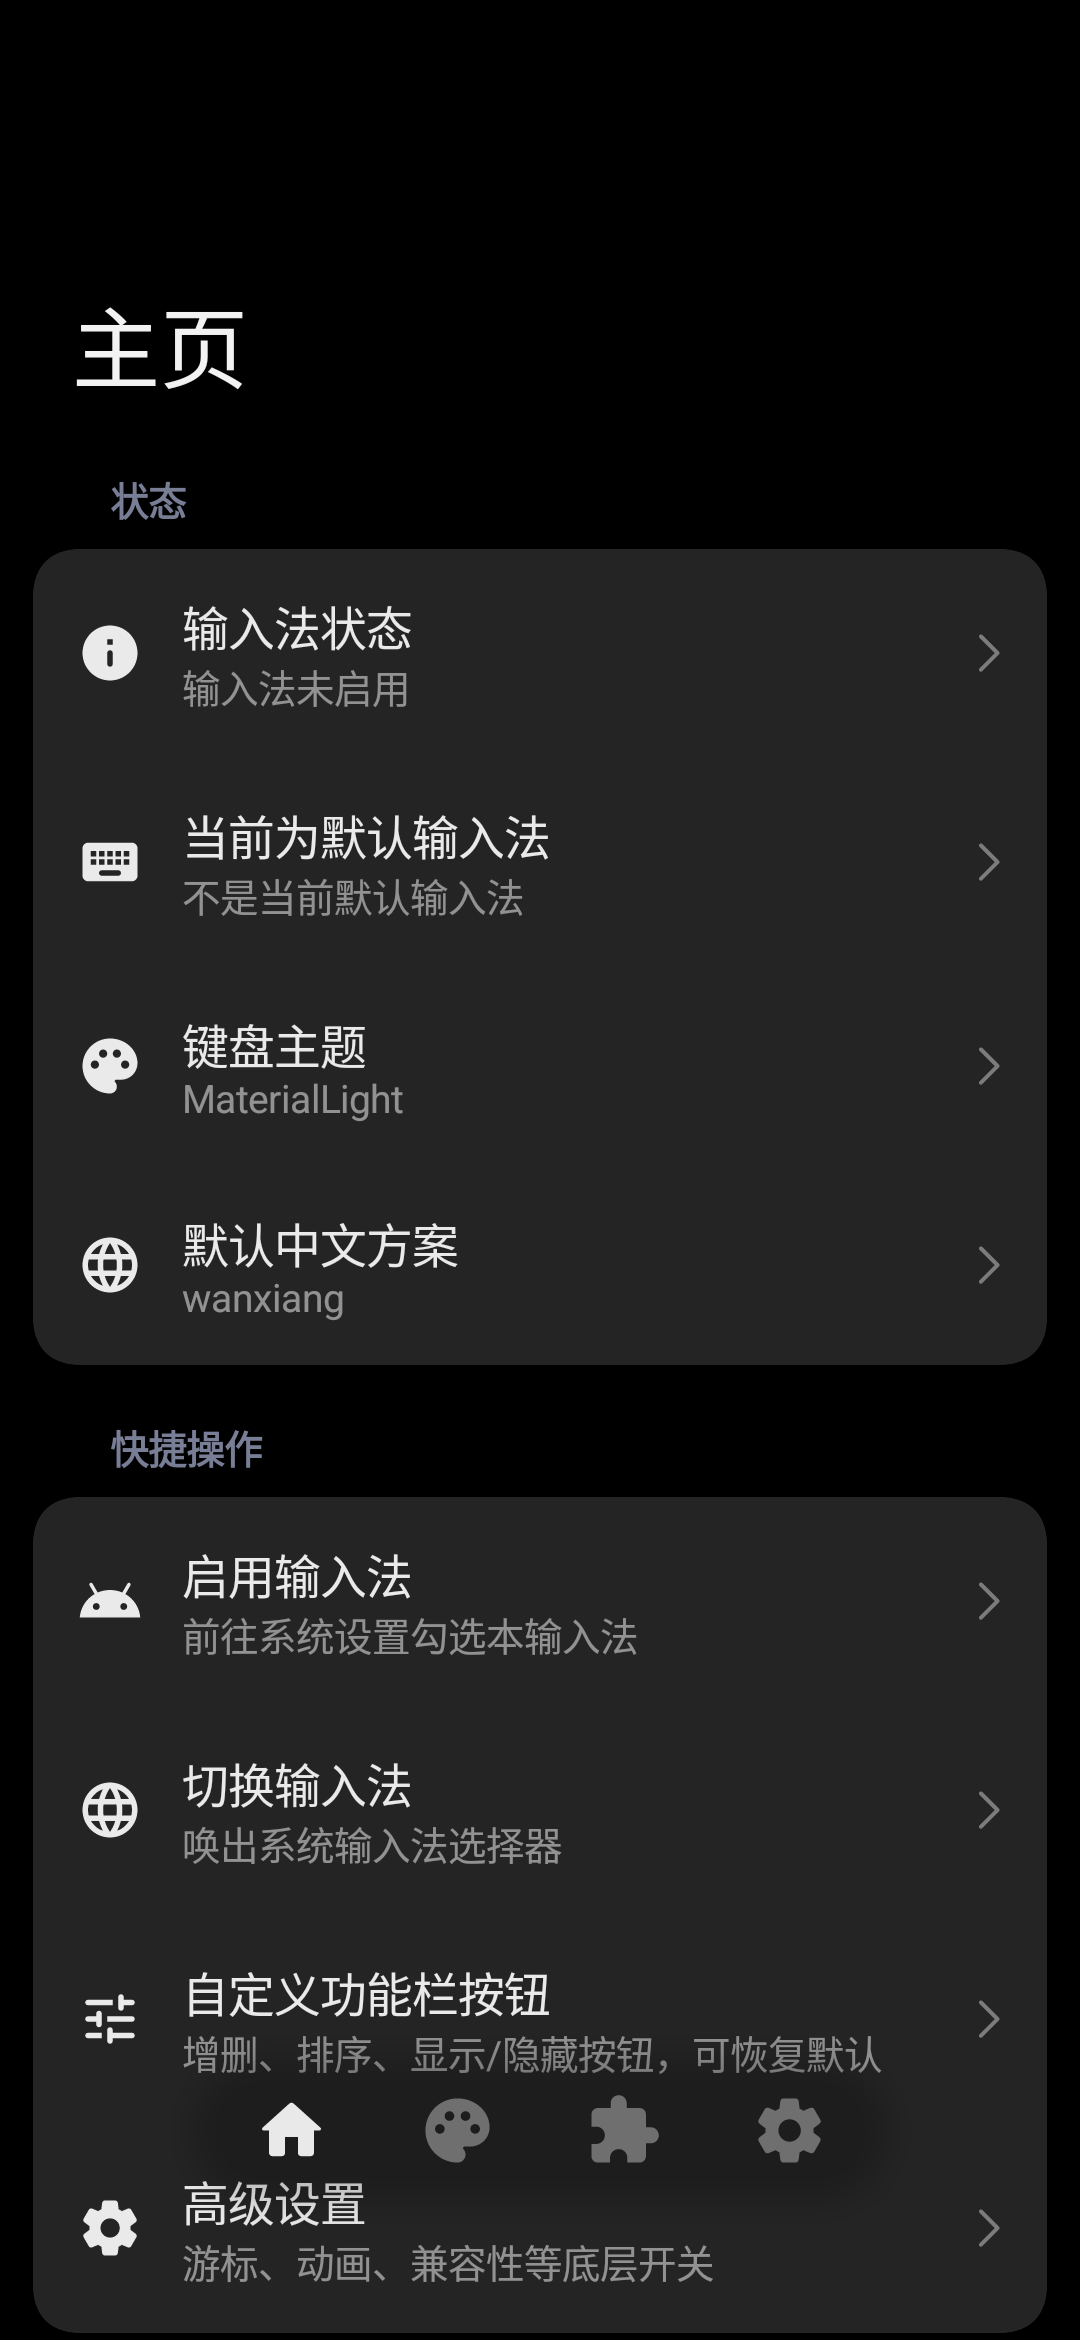
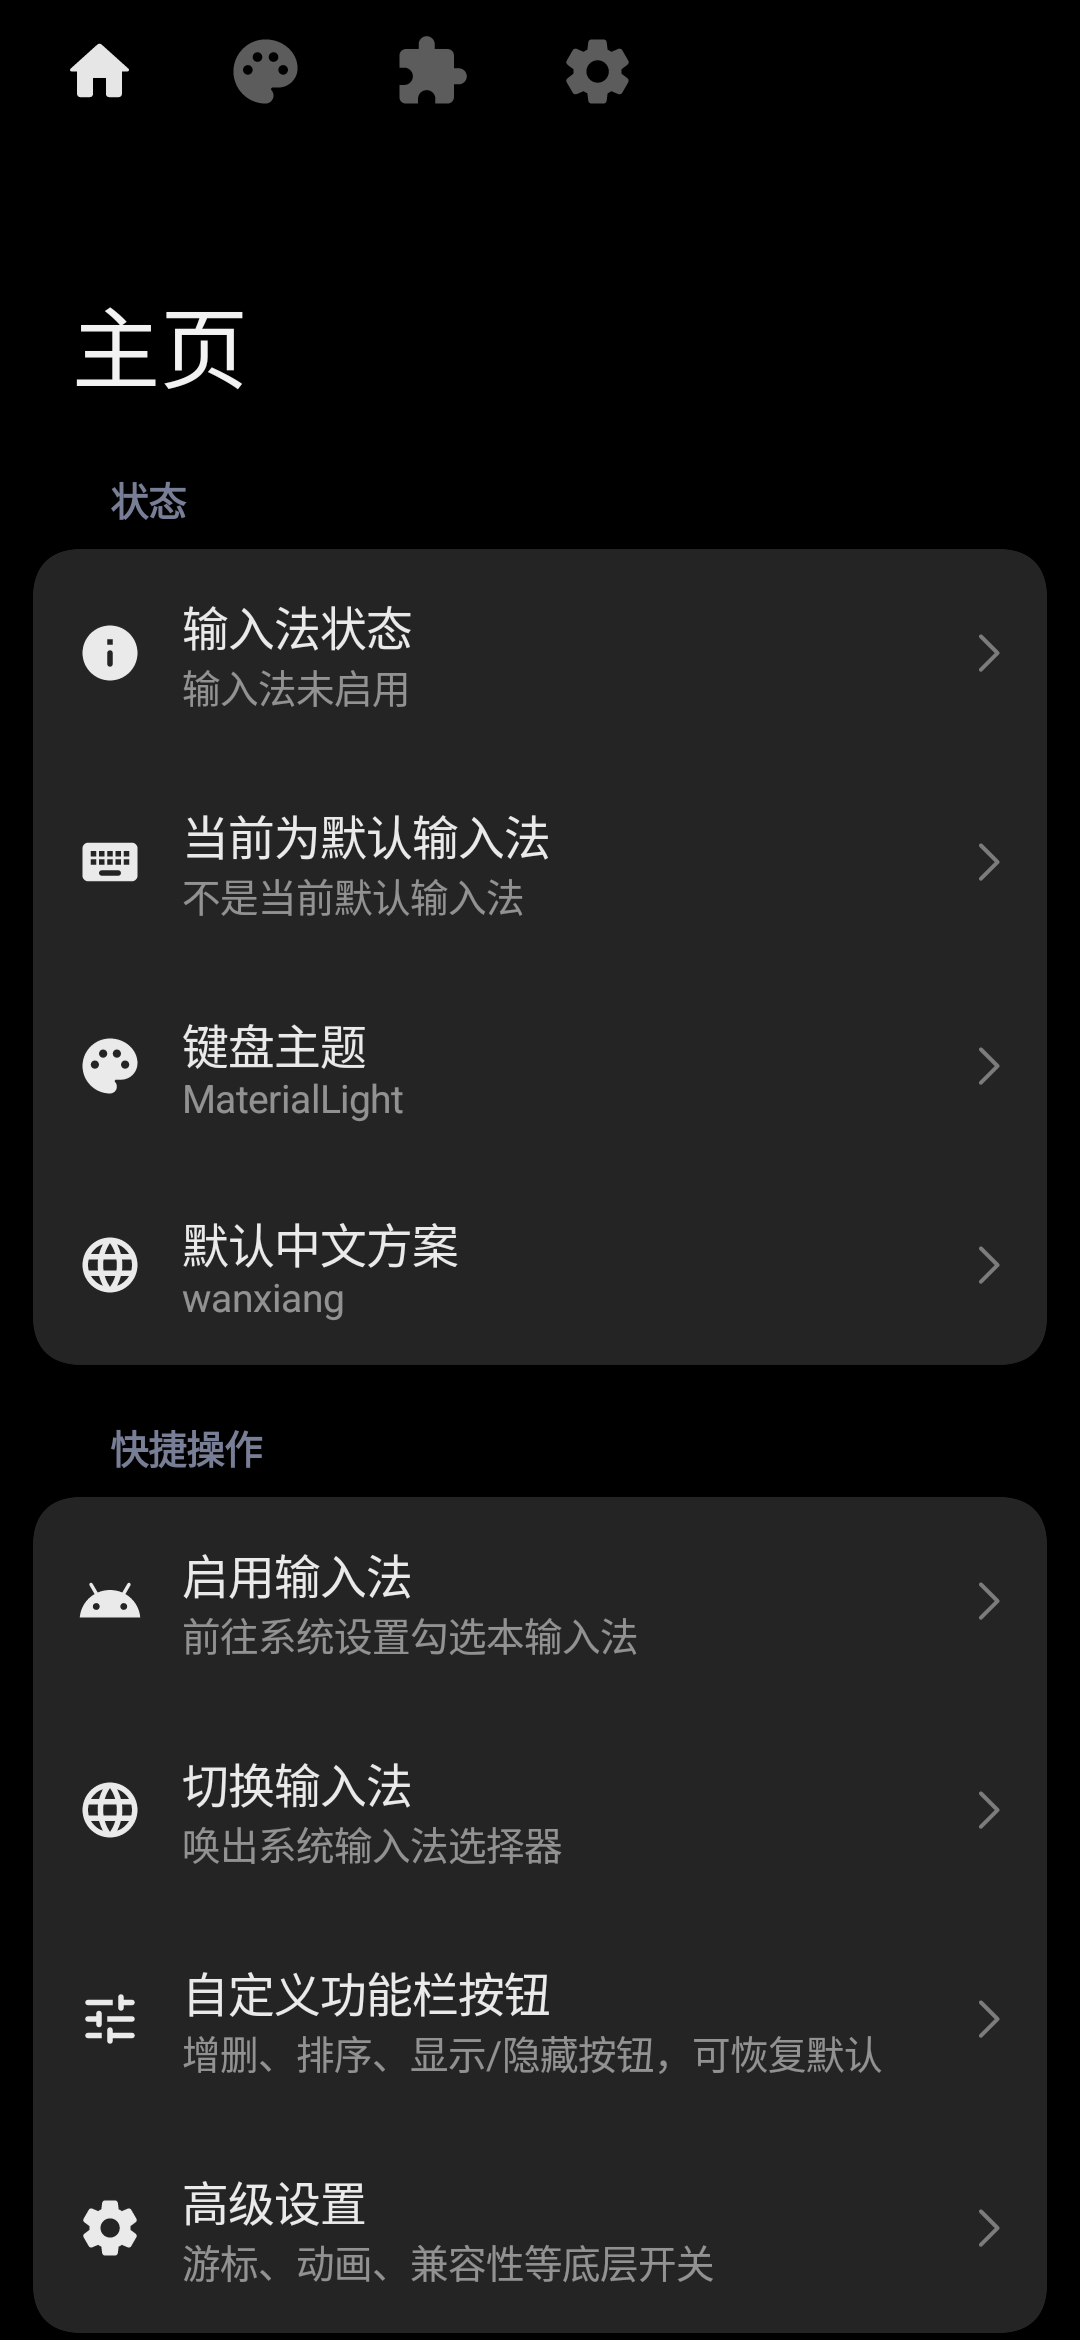
stage-12 revert: keep the bottom bar in Scaffold's bottomBar slot
Moving it out put it at the top of the Box; the original arrangement already renders the bar above
the pages with the frosted look (confirmed by the first emulator screenshots). The extra content
padding stays so the last card is reachable.

diff --git a/app/src/main/java/org/fcitx/fcitx5/android/ui/compose/FcitxApp.kt b/app/src/main/java/org/fcitx/fcitx5/android/ui/compose/FcitxApp.kt
@@ -107,11 +107,15 @@ fun FcitxApp(
         }
 
         Box(modifier = Modifier.fillMaxSize()) {
-            // The bar is placed as a sibling *after* the content instead of in Scaffold's bottomBar
-            // slot: miuix's Scaffold paints content last, which would let the pages cover the bar
-            // (visible in the emulator screenshots). Drawing it on top also matches the reference,
-            // where content scrolls underneath the floating bar.
             Scaffold(
+                bottomBar = {
+                    BottomBar(
+                        selected = pagerState.currentPage,
+                        onSelect = { index ->
+                            scope.launch { pagerState.animateScrollToPage(index) }
+                        },
+                    )
+                },
                 contentWindowInsets = WindowInsets.systemBars
                     .add(WindowInsets.displayCutout)
                     .only(WindowInsetsSides.Horizontal),
@@ -132,14 +136,6 @@ fun FcitxApp(
                     }
                 }
             }
-
-            BottomBar(
-                selected = pagerState.currentPage,
-                onSelect = { index ->
-                    scope.launch { pagerState.animateScrollToPage(index) }
-                },
-                modifier = Modifier.align(Alignment.BottomCenter),
-            )
 
             AnimatedVisibility(
                 visible = composeDetail != null,
